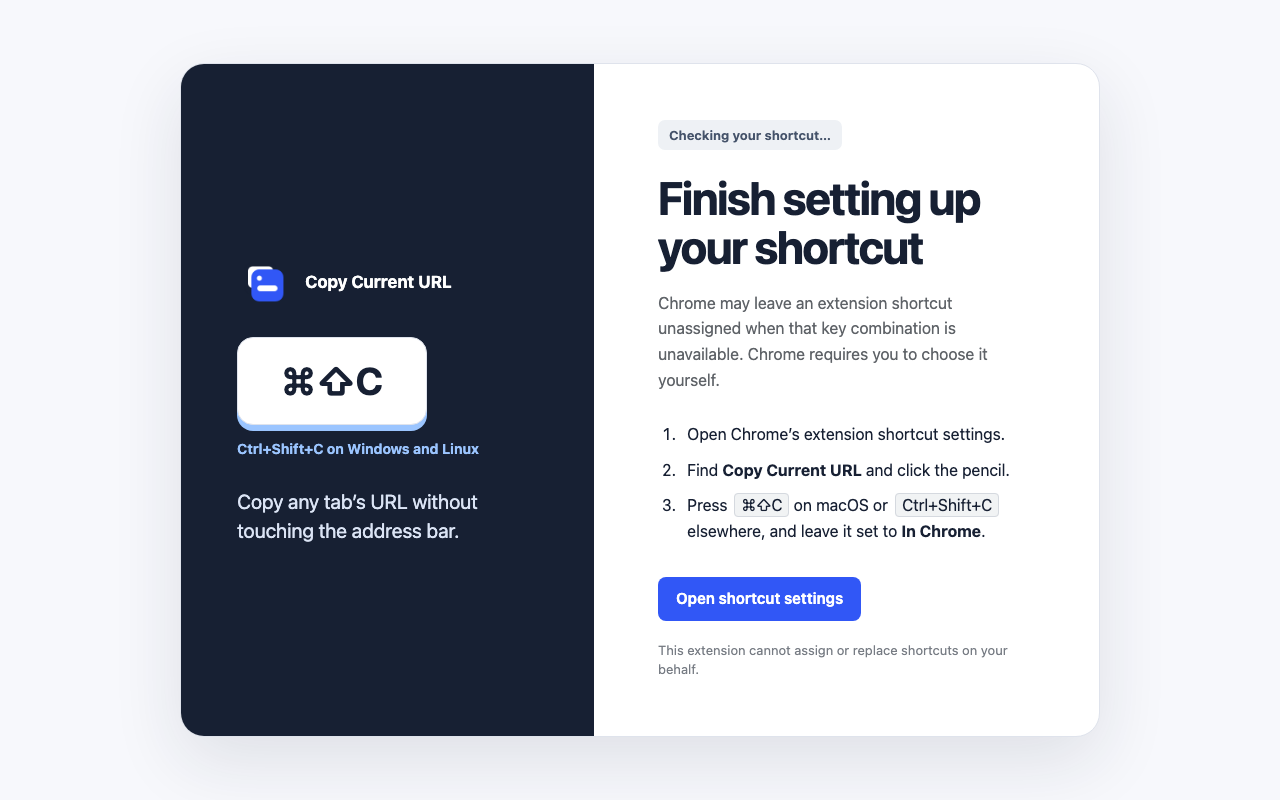
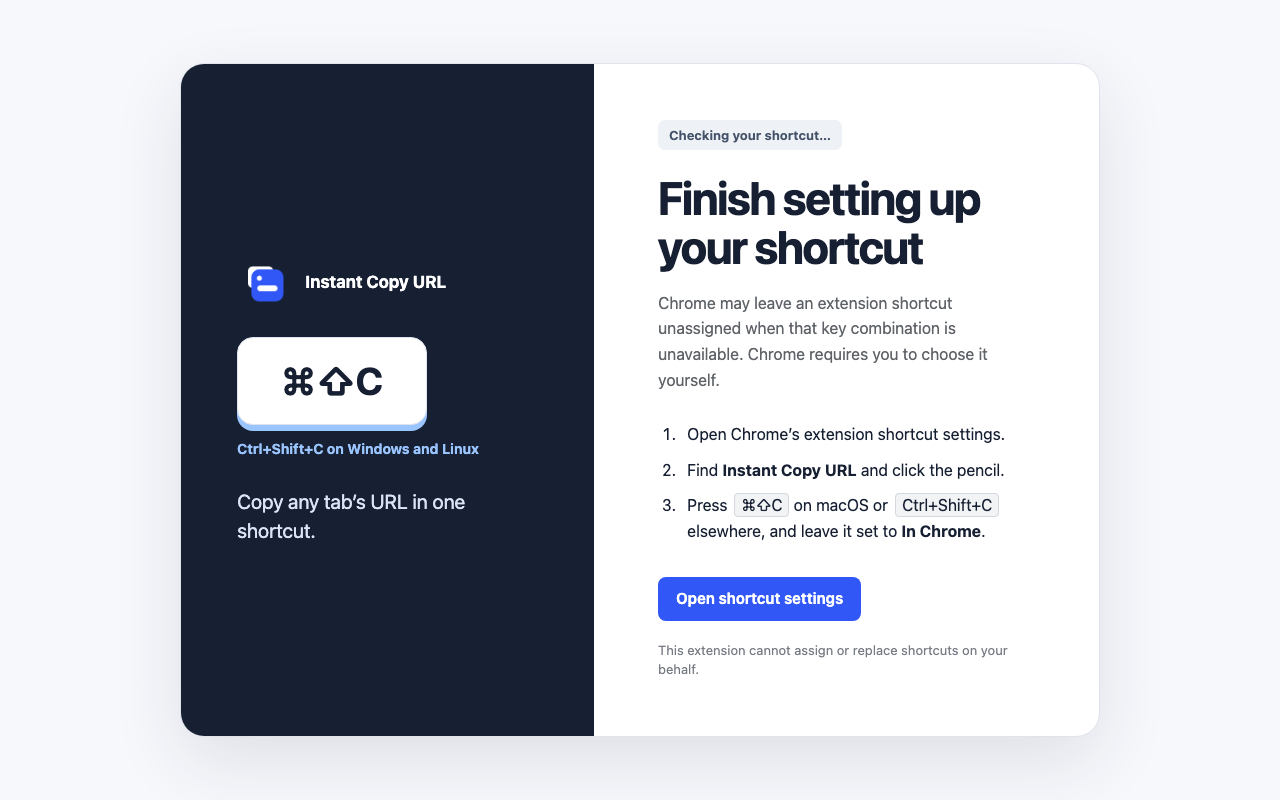
Rebrand extension as Instant Copy URL

Changed region(s): [[0.1875, 0.625, 0.375, 0.6875], [0.5625, 0.5625, 0.7812, 0.5938], [0.2188, 0.3438, 0.3438, 0.375]]

diff --git a/welcome.html b/welcome.html
@@ -3,7 +3,7 @@
   <head>
     <meta charset="utf-8" />
     <meta name="viewport" content="width=device-width, initial-scale=1" />
-    <title>Set up Copy Current URL</title>
+    <title>Set up Instant Copy URL</title>
     <link rel="stylesheet" href="welcome.css" />
   </head>
   <body>
@@ -11,7 +11,7 @@
       <section class="shortcut" aria-label="Keyboard shortcut">
         <div class="brand">
           <img src="icons/icon-128.png" alt="" width="54" height="54" />
-          <span>Copy Current URL</span>
+          <span>Instant Copy URL</span>
         </div>
         <div class="shortcut-keys">
           <div class="keys" aria-label="Command Shift C">
@@ -19,7 +19,7 @@
           </div>
           <p class="alternate">Ctrl+Shift+C on Windows and Linux</p>
         </div>
-        <p>Copy any tab’s URL without touching the address bar.</p>
+        <p>Copy any tab’s URL in one shortcut.</p>
       </section>
 
       <section class="setup">
@@ -34,7 +34,7 @@
 
         <ol>
           <li>Open Chrome’s extension shortcut settings.</li>
-          <li>Find <strong>Copy Current URL</strong> and click the pencil.</li>
+          <li>Find <strong>Instant Copy URL</strong> and click the pencil.</li>
           <li>
             Press <kbd>⌘⇧C</kbd> on macOS or <kbd>Ctrl+Shift+C</kbd> elsewhere,
             and leave it set to <strong>In Chrome</strong>.

diff --git a/test/extension.test.js b/test/extension.test.js
@@ -17,6 +17,11 @@ test("manifest grants only the permissions required for active-tab copying", () 
   );
 
   assert.equal(manifest.manifest_version, 3);
+  assert.equal(manifest.name, "Instant Copy URL");
+  assert.equal(
+    manifest.description,
+    "Copy the current tab's URL instantly with one keyboard shortcut.",
+  );
   assert.deepEqual(manifest.icons, {
     16: "icons/icon-16.png",
     32: "icons/icon-32.png",

diff --git a/offscreen.html b/offscreen.html
@@ -2,7 +2,7 @@
 <html lang="en">
   <head>
     <meta charset="utf-8" />
-    <title>Copy Current URL</title>
+    <title>Instant Copy URL</title>
   </head>
   <body>
     <textarea id="clipboard" aria-hidden="true"></textarea>

diff --git a/STORE_LISTING.md b/STORE_LISTING.md
@@ -2,10 +2,9 @@
 
 ## Store listing
 
-**Name:** Copy Current URL
+**Name:** Instant Copy URL
 
-**Summary:** Copy the current tab's URL with a keyboard shortcut and get a clear
-on-page confirmation.
+**Summary:** Copy the current tab's URL instantly with one keyboard shortcut.
 
 **Category:** Productivity
 
@@ -13,23 +12,20 @@ on-page confirmation.
 
 **Detailed description:**
 
-Copy Current URL gives you a fast, keyboard-first way to copy the address of
-the page you are viewing.
+Choose Command+Shift+C on macOS or Ctrl+Shift+C on Windows and Linux during the
+one-time setup. Once assigned, the shortcut skips the address bar and shows a
+clear confirmation when the URL is ready to paste.
 
-- Press Command+Shift+C on macOS or Ctrl+Shift+C on other platforms.
-- Get a clear confirmation without leaving the page.
-- Reassign the shortcut from Chrome's extension shortcut settings.
-- Keep your browsing private: URLs never leave your device.
+Everything happens on your device. The extension never stores or sends URLs
+and has no analytics, ads, tracking, accounts, remote code, or network access.
+Its source code is available under the MIT License.
 
-The extension has no analytics, advertising, tracking, accounts, or network
-access. It is open source under the MIT License.
+**Website:** https://github.com/afrojun/instant-copy-url
 
-**Website:** https://github.com/afrojun/copy-current-url
-
-**Support:** https://github.com/afrojun/copy-current-url/issues
+**Support:** https://github.com/afrojun/instant-copy-url/issues
 
 **Privacy policy:**
-https://github.com/afrojun/copy-current-url/blob/main/PRIVACY.md
+https://github.com/afrojun/instant-copy-url/blob/main/PRIVACY.md
 
 ## Privacy
 
@@ -80,5 +76,7 @@ URL is still copied there, but the confirmation message cannot be shown.
 ## Assets
 
 - Store icon: `icons/icon-128.png`
-- Screenshot: `store-assets/setup.png`
+- Lead screenshot: `store-assets/url-copied.png`
+- Setup screenshot: `store-assets/setup.png`
 - Small promo tile: `store-assets/small-promo.png`
+- Marquee promo tile: `store-assets/marquee-promo.png`

diff --git a/PRIVACY.md b/PRIVACY.md
@@ -2,13 +2,16 @@
 
 Effective date: 17 September 2026
 
-Copy Current URL accesses the URL of the active tab only when you invoke its
+Instant Copy URL accesses the URL of the active tab only when you invoke its
 keyboard shortcut. It processes that URL on your device to copy it to your
 clipboard and show a confirmation message.
 
 The extension does not collect, store, transmit, sell, or share URLs or any
 other user data. It has no analytics, advertising, tracking, accounts, remote
 code, or network communication.
+
+Use of information received from Google APIs will adhere to the Chrome Web
+Store User Data Policy, including the Limited Use requirements.
 
 ## Permissions
 
@@ -25,5 +28,5 @@ date.
 
 ## Contact
 
-For privacy questions, open an issue in the
-[project repository](https://github.com/afrojun/copy-current-url/issues).
+For privacy questions, email
+[extensions@afrojun.dev](mailto:extensions@afrojun.dev).

diff --git a/README.md b/README.md
@@ -1,6 +1,6 @@
-# Copy Current URL
+# Instant Copy URL
 
-A Chrome extension that copies the active tab URL when you press
+A Chrome extension that instantly copies the active tab URL when you press
 `Command+Shift+C` on macOS or `Ctrl+Shift+C` elsewhere, then confirms the copy
 with a small in-page toast.
 
